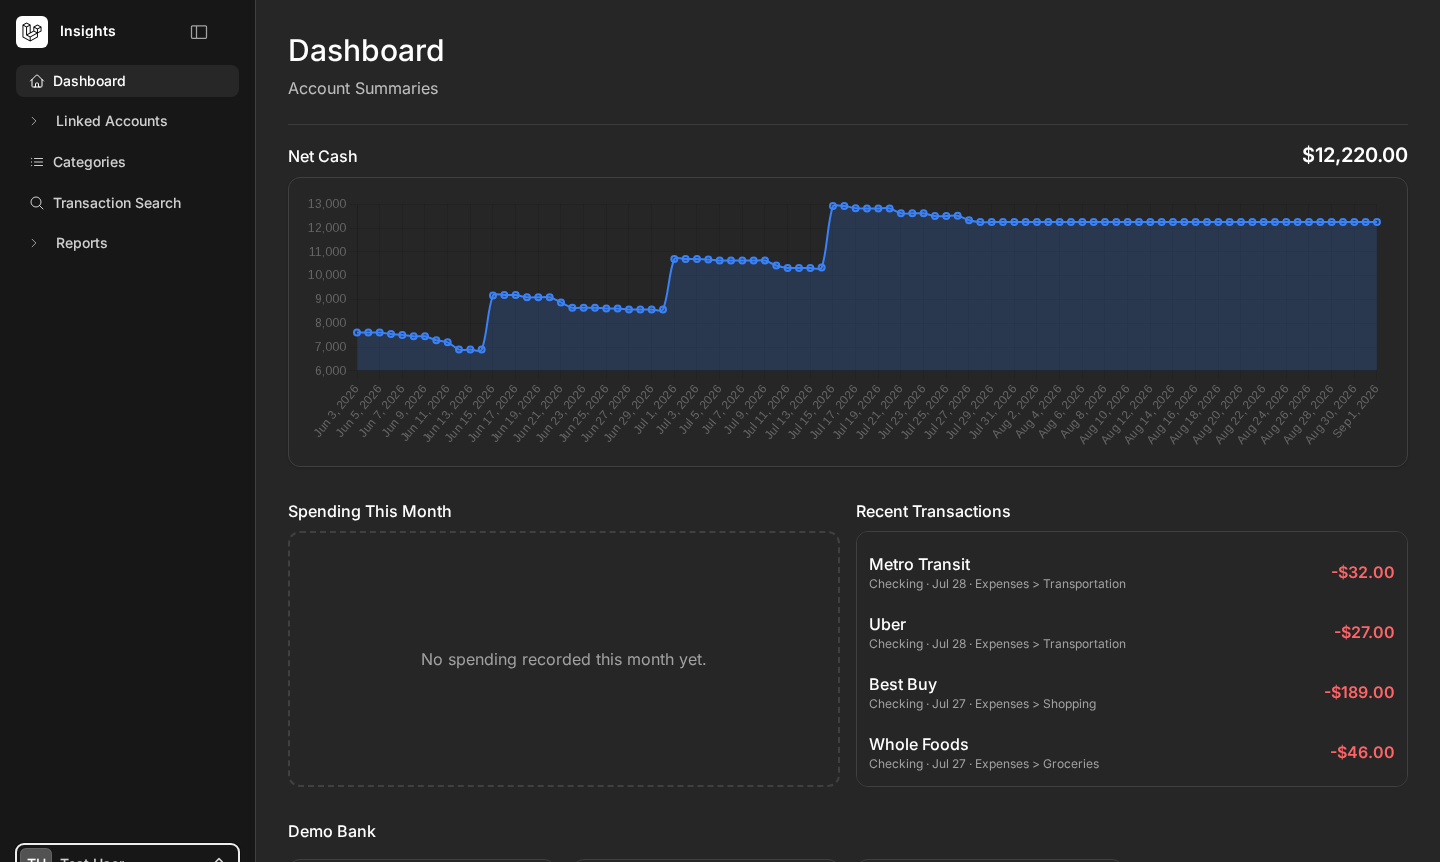
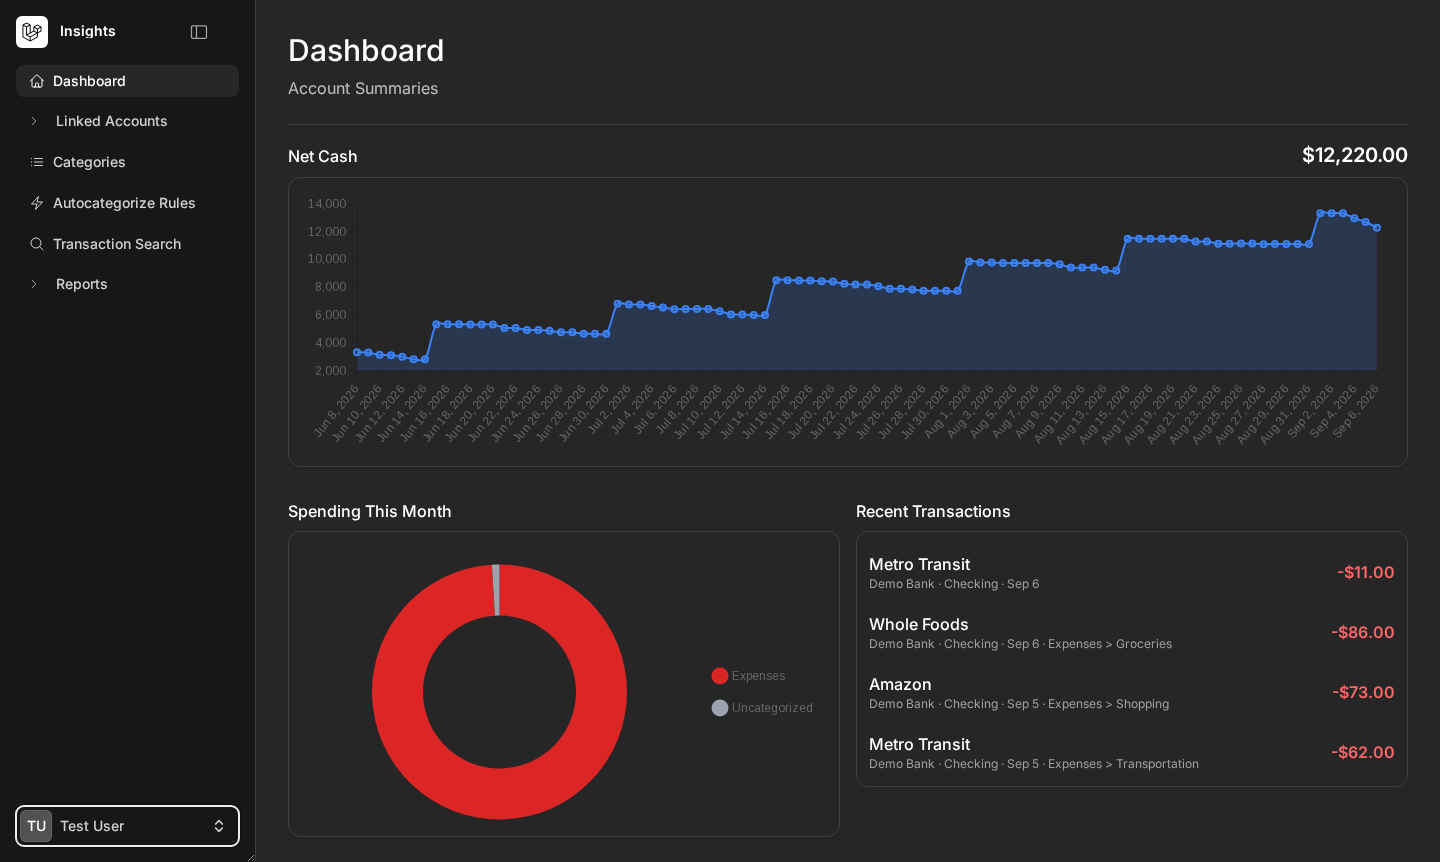
Fix DemoDataSeeder generating future-dated transactions
Fixed-day items (paycheck on the 15th, card payment on the 20th) and
randomly-distributed ones (expenses, card activity) both used offsets
anchored to month start with no upper bound, so seeding partway through a
month produced transactions dated later than "now" - a bank transaction
that hasn't happened yet. Cap the current month's offset at today's day
of month; skip fixed-day items entirely if that day hasn't arrived yet.

diff --git a/database/seeders/DemoDataSeeder.php b/database/seeders/DemoDataSeeder.php
@@ -96,12 +96,16 @@ class DemoDataSeeder extends Seeder
         $months = 6;
         for ($monthsAgo = $months - 1; $monthsAgo >= 0; $monthsAgo--) {
             $monthStart = now()->subMonthsNoOverflow($monthsAgo)->startOfMonth();
+            // The current (partial) month can't backfill days that haven't happened yet -
+            // capping the offset here keeps every generated date <= now, so a screenshot taken
+            // mid-month never shows a "recent transaction" dated later than today.
+            $maxDay = $monthsAgo === 0 ? now()->day - 1 : 27;
 
-            $this->seedPaycheck($checking, $categories['Paycheck'], $original['Paycheck'], $monthStart);
-            $this->seedExpenses($checking, $categories, $original, $monthStart);
-            $this->seedCreditCardActivity($creditCard, $categories['Entertainment'], $original['Entertainment'], $monthStart);
-            $this->seedCreditCardPayment($checking, $creditCard, $original['CreditCardPayment'], $monthStart);
-            $this->seedSavingsTransfer($checking, $savings, $original['Transfer'], $monthStart);
+            $this->seedPaycheck($checking, $categories['Paycheck'], $original['Paycheck'], $monthStart, $maxDay);
+            $this->seedExpenses($checking, $categories, $original, $monthStart, $maxDay);
+            $this->seedCreditCardActivity($creditCard, $categories['Entertainment'], $original['Entertainment'], $monthStart, $maxDay);
+            $this->seedCreditCardPayment($checking, $creditCard, $original['CreditCardPayment'], $monthStart, $maxDay);
+            $this->seedSavingsTransfer($checking, $savings, $original['Transfer'], $monthStart, $maxDay);
         }
 
         ReconcileLinkedAccountTransactions::run($linkedAccount);
@@ -152,9 +156,13 @@ class DemoDataSeeder extends Seeder
         ];
     }
 
-    private function seedPaycheck(Account $checking, Category $category, OriginalCategory $originalCategory, CarbonInterface $monthStart): void
+    private function seedPaycheck(Account $checking, Category $category, OriginalCategory $originalCategory, CarbonInterface $monthStart, int $maxDay): void
     {
         foreach ([1, 15] as $dayOfMonth) {
+            if ($dayOfMonth - 1 > $maxDay) {
+                continue;
+            }
+
             $transaction = Transaction::create([
                 'account_id' => $checking->id,
                 'name' => 'Acme Corp Payroll',
@@ -173,12 +181,13 @@ class DemoDataSeeder extends Seeder
      * @param  array<string, Category>  $categories
      * @param  array<string, OriginalCategory>  $original
      */
-    private function seedExpenses(Account $checking, array $categories, array $original, CarbonInterface $monthStart): void
+    private function seedExpenses(Account $checking, array $categories, array $original, CarbonInterface $monthStart, int $maxDay): void
     {
         foreach (self::EXPENSE_BUCKETS as $label => [, $merchants, [$min, $max], [$countMin, $countMax]]) {
             $count = random_int($countMin, $countMax);
 
             for ($i = 0; $i < $count; $i++) {
+                $day = random_int(0, $maxDay);
                 $transaction = Transaction::create([
                     'account_id' => $checking->id,
                     'name' => $merchants[array_rand($merchants)],
@@ -186,8 +195,8 @@ class DemoDataSeeder extends Seeder
                     'currency' => 'USD',
                     'type' => 'expense',
                     'original_category_id' => $original[$label]->id,
-                    'created_at' => $monthStart->copy()->addDays(random_int(0, 27)),
-                    'updated_at' => $monthStart->copy()->addDays(random_int(0, 27)),
+                    'created_at' => $monthStart->copy()->addDays($day),
+                    'updated_at' => $monthStart->copy()->addDays($day),
                 ]);
 
                 // Leave ~15% uncategorized on purpose — demo data should show the "only
@@ -199,9 +208,10 @@ class DemoDataSeeder extends Seeder
         }
     }
 
-    private function seedCreditCardActivity(Account $creditCard, Category $entertainmentCategory, OriginalCategory $originalCategory, CarbonInterface $monthStart): void
+    private function seedCreditCardActivity(Account $creditCard, Category $entertainmentCategory, OriginalCategory $originalCategory, CarbonInterface $monthStart, int $maxDay): void
     {
         foreach (['Netflix', 'Spotify'] as $merchant) {
+            $day = random_int(0, $maxDay);
             $transaction = Transaction::create([
                 'account_id' => $creditCard->id,
                 'name' => $merchant,
@@ -209,15 +219,19 @@ class DemoDataSeeder extends Seeder
                 'currency' => 'USD',
                 'type' => 'expense',
                 'original_category_id' => $originalCategory->id,
-                'created_at' => $monthStart->copy()->addDays(random_int(0, 27)),
-                'updated_at' => $monthStart->copy()->addDays(random_int(0, 27)),
+                'created_at' => $monthStart->copy()->addDays($day),
+                'updated_at' => $monthStart->copy()->addDays($day),
             ]);
             $transaction->categories()->attach($entertainmentCategory->id);
         }
     }
 
-    private function seedCreditCardPayment(Account $checking, Account $creditCard, OriginalCategory $originalCategory, CarbonInterface $monthStart): void
+    private function seedCreditCardPayment(Account $checking, Account $creditCard, OriginalCategory $originalCategory, CarbonInterface $monthStart, int $maxDay): void
     {
+        if ($maxDay < 20) {
+            return;
+        }
+
         $day = $monthStart->copy()->addDays(20);
 
         $outgoing = Transaction::create([
@@ -243,8 +257,12 @@ class DemoDataSeeder extends Seeder
         $outgoing->pairWith($incoming);
     }
 
-    private function seedSavingsTransfer(Account $checking, Account $savings, OriginalCategory $originalCategory, CarbonInterface $monthStart): void
+    private function seedSavingsTransfer(Account $checking, Account $savings, OriginalCategory $originalCategory, CarbonInterface $monthStart, int $maxDay): void
     {
+        if ($maxDay < 2) {
+            return;
+        }
+
         $day = $monthStart->copy()->addDays(2);
 
         $outgoing = Transaction::create([
